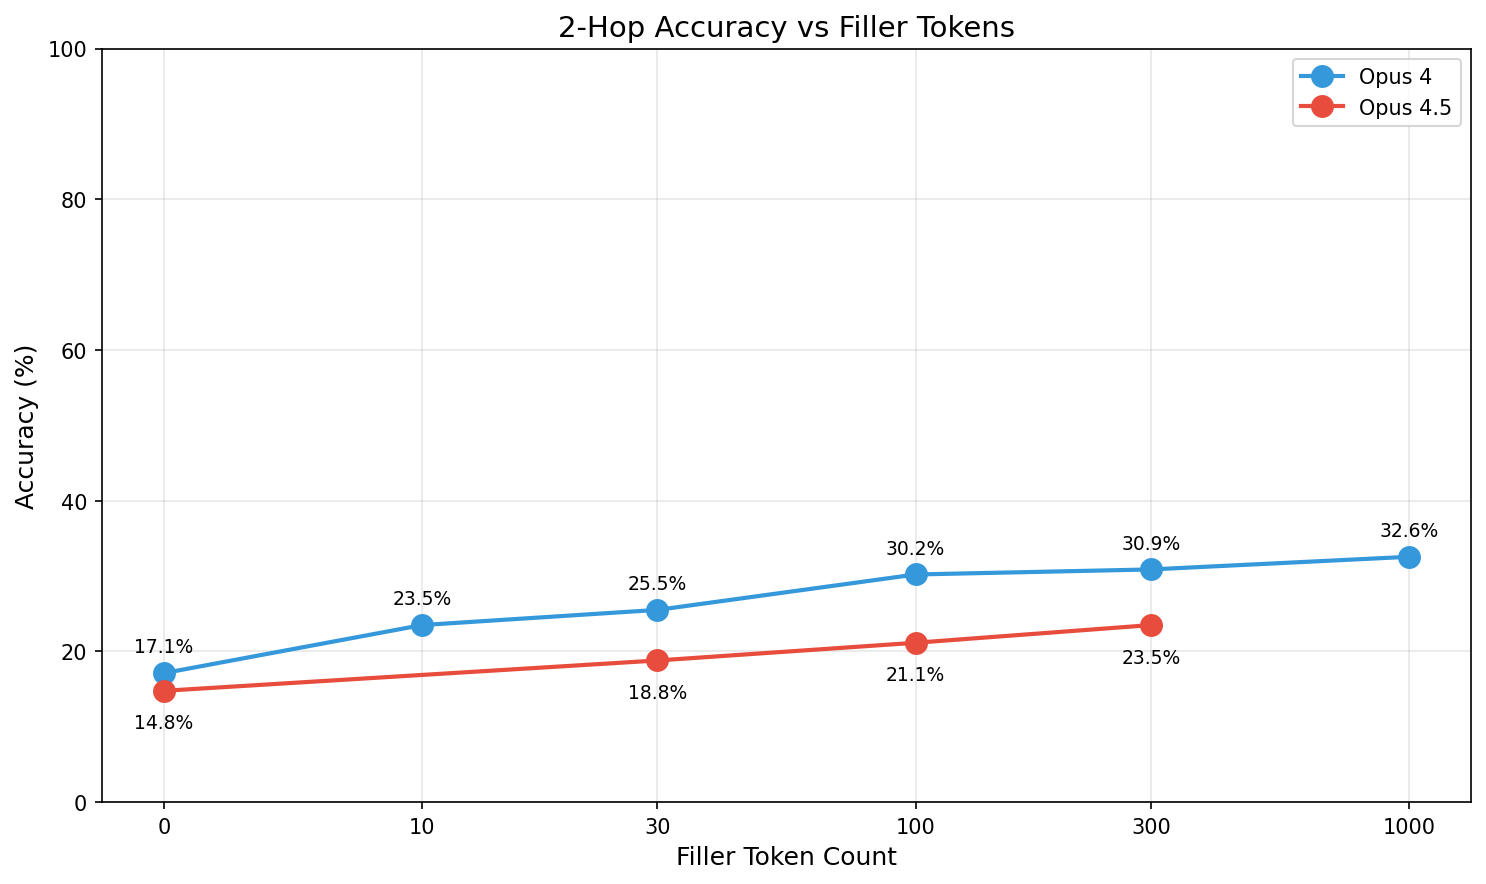
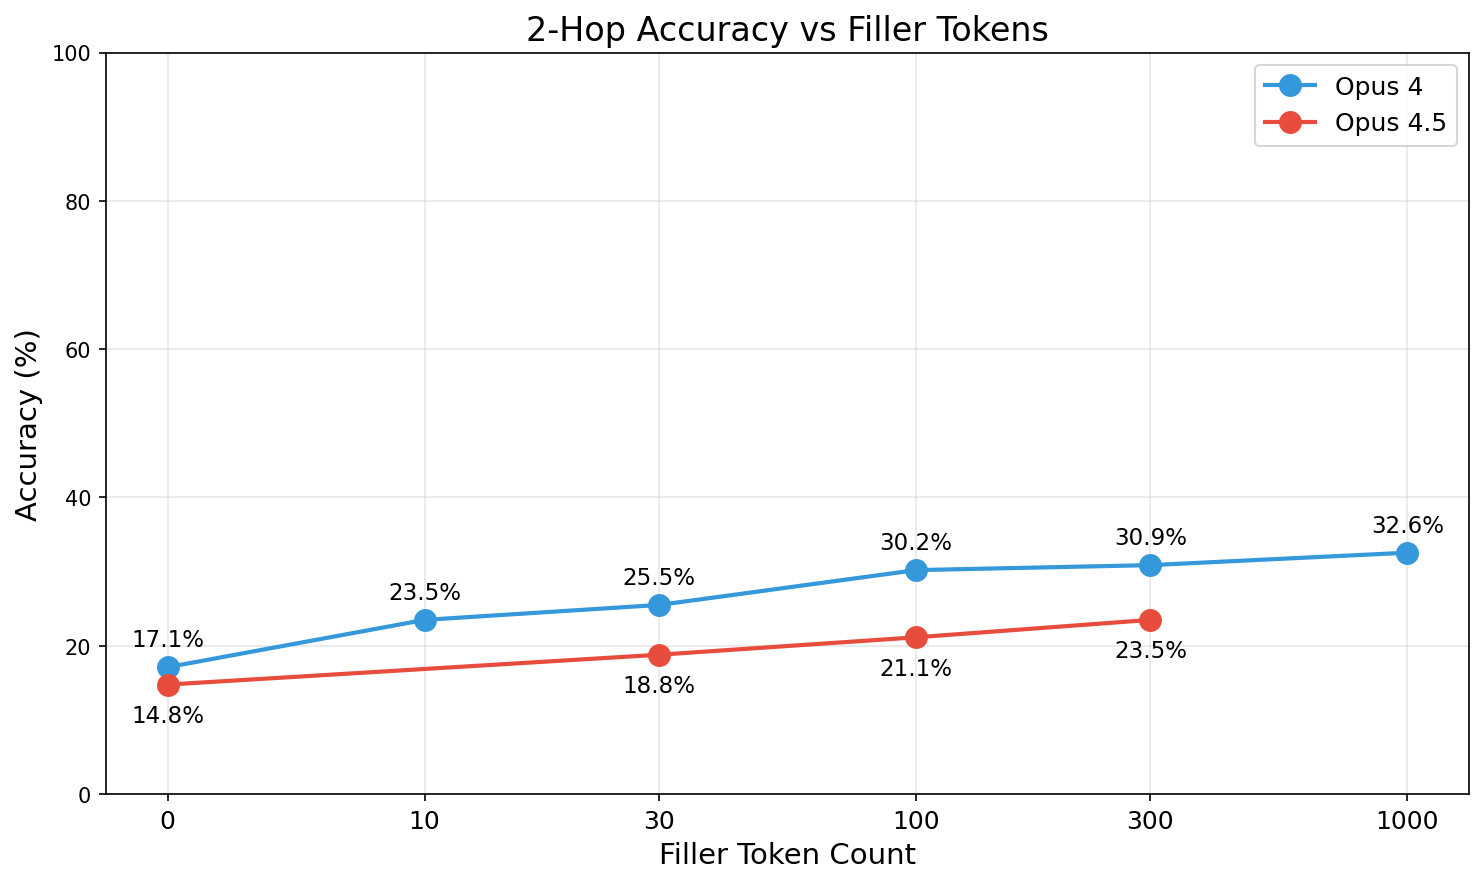
plotting updates

Changed region(s): [[0.0, 0.0, 0.9919, 0.9774]]

diff --git a/analyze_results.py b/analyze_results.py
@@ -159,18 +159,19 @@ def plot_accuracy_by_hops():
 
     fig = plt.figure(figsize=(14, 10))
     # 2 top, 1 bottom centered layout using GridSpec
-    gs = fig.add_gridspec(2, 4, hspace=0.3)
+    gs = fig.add_gridspec(2, 4, hspace=0.35, wspace=0.3)
     ax1 = fig.add_subplot(gs[0, 0:2])
     ax2 = fig.add_subplot(gs[0, 2:4])
     ax3 = fig.add_subplot(gs[1, 1:3])  # Centered in bottom row
 
     hops = [2, 3, 4]
-    x = np.arange(len(hops)) * 1.3  # Spacing between hop groups
+    n_models = len(data_by_model)
+    x = np.arange(len(hops)) * 1.1  # Reduced spacing between hop groups
     width = 0.2
 
     # Baseline (no repeat)
     ax = ax1
-    ax.set_title("Accuracy by Hop Level (Baseline, r=1)", fontsize=14)
+    ax.set_title("Baseline (r=1)", fontsize=16)
 
     for i, (model, model_data) in enumerate(data_by_model.items()):
         baseline = model_data.get("baseline", {})
@@ -187,7 +188,7 @@ def plot_accuracy_by_hops():
 
         bars = ax.bar(x + i * width, accuracies, width, label=model, color=MODEL_COLORS.get(model, "gray"))
 
-        # Add value labels
+        # Add value labels (vertical to avoid overlap)
         for bar, acc in zip(bars, accuracies):
             ax.text(
                 bar.get_x() + bar.get_width() / 2,
@@ -195,20 +196,21 @@ def plot_accuracy_by_hops():
                 f"{acc:.1f}%",
                 ha="center",
                 va="bottom",
-                fontsize=8,
+                fontsize=10,
+                rotation=90,
             )
 
-    ax.set_xlabel("Number of Hops")
-    ax.set_ylabel("Accuracy (%)")
-    ax.set_xticks(x + width * 2)
-    ax.set_xticklabels(hops)
-    ax.legend()
+    ax.set_xlabel("Number of Hops", fontsize=13)
+    ax.set_ylabel("Accuracy (%)", fontsize=13)
+    ax.set_xticks(x + width * (n_models - 1) / 2)
+    ax.set_xticklabels(hops, fontsize=12)
+    ax.legend(fontsize=11)
     ax.set_ylim(0, 100)
     ax.grid(axis="y", alpha=0.3)
 
     # With repeat (r=5)
     ax = ax2
-    ax.set_title("Accuracy by Hop Level (With Repeat, r=5)", fontsize=14)
+    ax.set_title("With Repeat (r=5)", fontsize=16)
 
     for i, (model, model_data) in enumerate(data_by_model.items()):
         repeat_data = model_data.get("r5", {})
@@ -232,20 +234,21 @@ def plot_accuracy_by_hops():
                 f"{acc:.1f}%",
                 ha="center",
                 va="bottom",
-                fontsize=8,
+                fontsize=10,
+                rotation=90,
             )
 
-    ax.set_xlabel("Number of Hops")
-    ax.set_ylabel("Accuracy (%)")
-    ax.set_xticks(x + width * 2)
-    ax.set_xticklabels(hops)
-    ax.legend()
+    ax.set_xlabel("Number of Hops", fontsize=13)
+    ax.set_ylabel("Accuracy (%)", fontsize=13)
+    ax.set_xticks(x + width * (n_models - 1) / 2)
+    ax.set_xticklabels(hops, fontsize=12)
+    ax.legend(fontsize=11)
     ax.set_ylim(0, 100)
     ax.grid(axis="y", alpha=0.3)
 
     # Bottom: Improvement from baseline to repeat
     ax = ax3
-    ax.set_title("Improvement from Repeat (r=5 - r=1)", fontsize=14)
+    ax.set_title("Improvement from Repeat (r=5 - r=1)", fontsize=16)
 
     for i, (model, model_data) in enumerate(data_by_model.items()):
         baseline_stats = model_data.get("baseline", {}).get("hop_stats", {})
@@ -269,14 +272,15 @@ def plot_accuracy_by_hops():
                 f"{imp:+.1f}%",
                 ha="center",
                 va="bottom" if imp >= 0 else "top",
-                fontsize=8,
+                fontsize=10,
+                rotation=90,
             )
 
-    ax.set_xlabel("Number of Hops")
-    ax.set_ylabel("Accuracy Improvement (%)")
-    ax.set_xticks(x + width * 2)
-    ax.set_xticklabels(hops)
-    ax.legend()
+    ax.set_xlabel("Number of Hops", fontsize=13)
+    ax.set_ylabel("Improvement (%)", fontsize=13)
+    ax.set_xticks(x + width * (n_models - 1) / 2)
+    ax.set_xticklabels(hops, fontsize=12)
+    ax.legend(fontsize=11)
     ax.axhline(y=0, color="black", linestyle="-", linewidth=0.5)
     ax.set_ylim(-3, 12)
     ax.grid(axis="y", alpha=0.3)
@@ -705,17 +709,17 @@ def plot_performance_vs_r():
 
             offset = annotation_offsets.get(model_key, (0, 10))
             for r_val, acc in zip(r_vals, accs):
-                ax.annotate(f"{acc:.1f}%", (r_val, acc), textcoords="offset points", xytext=offset, ha="center", fontsize=9)
+                ax.annotate(f"{acc:.1f}%", (r_val, acc), textcoords="offset points", xytext=offset, ha="center", fontsize=11)
 
-        ax.set_xlabel("Repeat Count (r)", fontsize=12)
-        ax.set_ylabel("Accuracy (%)", fontsize=12)
-        ax.set_title(f"{h}-Hop Accuracy vs Repeat Count", fontsize=14)
+        ax.set_xlabel("Repeat Count (r)", fontsize=14)
+        ax.set_ylabel("Accuracy (%)", fontsize=14)
+        ax.set_title(f"{h}-Hop Accuracy vs Repeat Count", fontsize=16)
         ax.set_xscale("log")
         ax.set_xticks(sorted(all_r_vals))
-        ax.set_xticklabels([str(x) for x in sorted(all_r_vals)])
+        ax.set_xticklabels([str(x) for x in sorted(all_r_vals)], fontsize=12)
         ax.set_ylim(0, 100)
         ax.grid(alpha=0.3)
-        ax.legend()
+        ax.legend(fontsize=12)
 
         plt.tight_layout()
         plt.savefig(f"eval_results/performance_vs_r_{h}hop.png", dpi=150, bbox_inches="tight")
@@ -925,21 +929,21 @@ def plot_performance_vs_f():
 
             offset = annotation_offsets.get(model_key, (0, 10))
             for f_val_plot, acc in zip(f_vals_plot, accs):
-                ax.annotate(f"{acc:.1f}%", (f_val_plot, acc), textcoords="offset points", xytext=offset, ha="center", fontsize=9)
+                ax.annotate(f"{acc:.1f}%", (f_val_plot, acc), textcoords="offset points", xytext=offset, ha="center", fontsize=11)
 
-        ax.set_xlabel("Filler Token Count", fontsize=12)
-        ax.set_ylabel("Accuracy (%)", fontsize=12)
-        ax.set_title(f"{h}-Hop Accuracy vs Filler Tokens", fontsize=14)
+        ax.set_xlabel("Filler Token Count", fontsize=14)
+        ax.set_ylabel("Accuracy (%)", fontsize=14)
+        ax.set_title(f"{h}-Hop Accuracy vs Filler Tokens", fontsize=16)
         ax.set_xscale("log")
         ax.set_ylim(0, 100)
         ax.grid(alpha=0.3)
-        ax.legend()
+        ax.legend(fontsize=12)
 
         # Set custom tick labels: show "0" at position 3, use plain numbers not 10^x
         tick_positions = sorted([3 if x == 0 else x for x in all_f_vals])
         tick_labels = ["0" if x == 3 else str(x) for x in tick_positions]
         ax.set_xticks(tick_positions)
-        ax.set_xticklabels(tick_labels)
+        ax.set_xticklabels(tick_labels, fontsize=12)
         ax.minorticks_off()
 
         plt.tight_layout()
@@ -1129,8 +1133,13 @@ def plot_mapping_comparison():
             print(f"Warning: {filepath} not found")
             config_data[label] = None
 
-    # Create figure with 3 subplots
-    fig, axes = plt.subplots(1, 3, figsize=(15, 5))
+    # Create figure with 2 top, 1 bottom layout
+    fig = plt.figure(figsize=(14, 10))
+    gs = fig.add_gridspec(2, 4, hspace=0.35, wspace=0.3)
+    ax1 = fig.add_subplot(gs[0, 0:2])
+    ax2 = fig.add_subplot(gs[0, 2:4])
+    ax3 = fig.add_subplot(gs[1, 1:3])  # Centered in bottom row
+    axes = [ax1, ax2, ax3]
 
     colors = ["#3498DB", "#2ECC71", "#F39C12", "#E74C3C"]
     labels = [c[0] for c in configs]
@@ -1165,7 +1174,7 @@ def plot_mapping_comparison():
                     f"{acc:.1f}%",
                     ha="center",
                     va="top",
-                    fontsize=10,
+                    fontsize=14,
                     color="white",
                     fontweight="bold",
                 )
@@ -1176,19 +1185,18 @@ def plot_mapping_comparison():
                     f"{acc:.1f}%",
                     ha="center",
                     va="bottom",
-                    fontsize=10,
+                    fontsize=14,
                 )
 
-        ax.set_xlabel("Configuration", fontsize=11)
-        ax.set_ylabel("Accuracy (%)", fontsize=11)
-        ax.set_title(f"{hop}-Hop Problems", fontsize=13)
+        ax.set_xlabel("Configuration", fontsize=15)
+        ax.set_ylabel("Accuracy (%)", fontsize=15)
+        ax.set_title(f"{hop}-Hop Problems", fontsize=18)
         ax.set_xticks(x)
-        ax.set_xticklabels(labels, rotation=15, ha="right", fontsize=9)
+        ax.set_xticklabels(labels, rotation=15, ha="right", fontsize=13)
         ax.set_ylim(0, 100)
         ax.grid(axis="y", alpha=0.3)
 
-    plt.suptitle("Opus 4.5: Include Mappings Performance", fontsize=14, fontweight="bold")
-    plt.tight_layout()
+    plt.suptitle("Opus 4.5: Include Mappings Performance", fontsize=20, fontweight="bold", y=0.98)
     plt.savefig("eval_results/mapping_comparison_opus-4-5.png", dpi=150, bbox_inches="tight")
     plt.close()
     print("Saved: eval_results/mapping_comparison_opus-4-5.png")
@@ -1209,7 +1217,7 @@ def plot_all_models_2_3_hop():
     fig, ax = plt.subplots(figsize=(14, 7))
 
     hops = [2, 3]
-    x = np.arange(len(hops)) * 1.5  # Spacing between hop groups
+    x = np.arange(len(hops)) * 1.2  # Reduced spacing between hop groups
 
     # Get models that have r5 data, ordered by EXTENDED_PLOT_MODEL_ORDER
     models_with_r5 = [m for m in EXTENDED_PLOT_MODEL_ORDER if m in data_by_model and "r5" in data_by_model[m]]
@@ -1252,16 +1260,16 @@ def plot_all_models_2_3_hop():
                 f"{acc:.1f}%",
                 ha="center",
                 va="bottom",
-                fontsize=8,
+                fontsize=12,
                 rotation=90,
             )
 
-    ax.set_xlabel("Number of Hops", fontsize=12)
-    ax.set_ylabel("Accuracy (%)", fontsize=12)
-    ax.set_title("All Models: Accuracy by Hop Level (r=5)", fontsize=14)
+    ax.set_xlabel("Number of Hops", fontsize=14)
+    ax.set_ylabel("Accuracy (%)", fontsize=14)
+    ax.set_title("All Models: Accuracy by Hop Level (r=5)", fontsize=16)
     ax.set_xticks(x)
-    ax.set_xticklabels([f"{h}-hop" for h in hops])
-    ax.legend(loc="upper right", fontsize=9)
+    ax.set_xticklabels([f"{h}-hop" for h in hops], fontsize=13)
+    ax.legend(loc="upper right", fontsize=13)
     ax.set_ylim(0, 105)
     ax.grid(axis="y", alpha=0.3)
 
